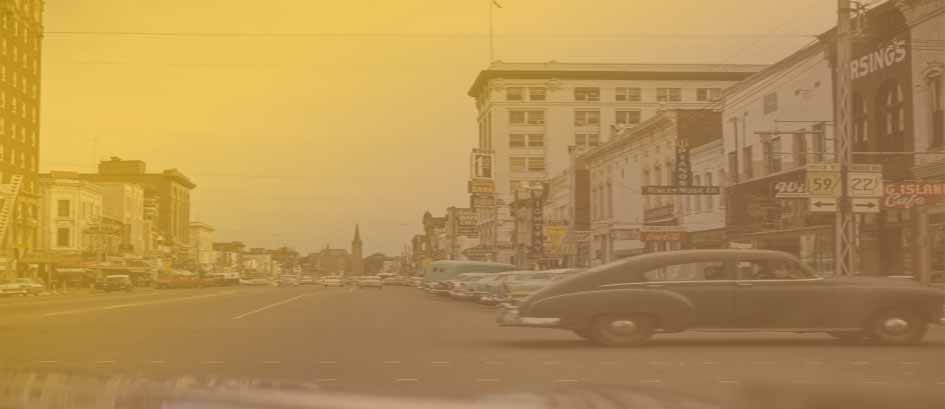
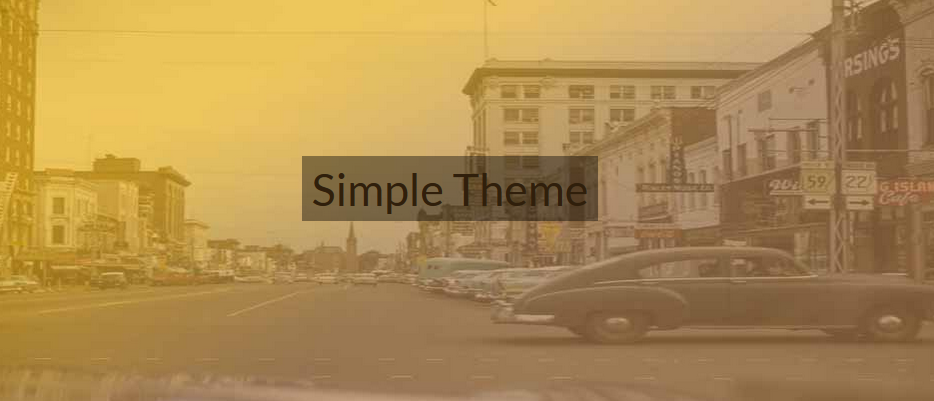
modified

diff --git a/css/style.css b/css/style.css
@@ -57,7 +57,7 @@ p, h2 {
 
 body{
 	width: 100%;
-	height: 1400px;
+	height: auto;
 	background: url("../images/back.jpg");
 	background-size: cover;
 	background-repeat: no-repeat;
@@ -66,7 +66,7 @@ body{
 	background-color: #d9c9ba;
 	margin-top: 2% !important;
 	width: 60%;
-	height: 1400px;
+	height: auto;
 	margin: 0 auto;
 	border: 3px solid #301f0b;
 }
@@ -104,29 +104,22 @@ ul {
 .midsection {
 	width: 100%;
 	height: 300px;
-	margin-left: 1.5%;
 	margin-top: 6%;
+}
+@media (max-width: 768px) {
+	.midsection {
+		height: 20%;
+	}
 }
 nav {
 	height: 130px;
 	border-bottom: 3px solid #301f0b;
 }
-.banner2 {
-	margin: 20px auto;
-	background: url("../images/banner2.jpg");
-	background-repeat: no-repeat;
-	width: 920px;
-	height: 409px;
-}
-.simple {
-	color: #301f0b;
-	margin-left: 21%;
-	margin-top: 7%;
-	padding: 10px;
-	position: absolute;
-	font-family: 'Lato';
-	font-size: 45px;
-	background: rgb(0,0,0,0.4);
+@media (max-width: 768px) {
+	.simple {
+		font-size: 20px;
+		margin-left: 15%;
+	}
 }
 .midsection h1 {
 	font-family: 'Lato';
@@ -135,22 +128,43 @@ nav {
 	margin-bottom: 1.5%;
 }
 .box {
+	margin-left: 4%;
 	display: inline-block;
 	padding: 20px;
 }
+@media (max-width: 768px ) {
+	.box {
+		display: none;
+	}
+}
+
 .boxes {
-	margin-left: 0 auto !important;
-	margin-right: 35px !important;
-	width: 900px !important;
+	margin: 0 auto !important;
+	width: 90% !important;
 	height: 180px;
 	margin-right: 200px;
 	margin-bottom: 25px;
 	border: 3px solid #301f0b;
 }
+@media (max-width: 768px) {
+	.boxes {
+		border: none;
+	}
+}
+@media (max-width: 768px) {
+	.midsection h1 {
+		display: none;
+	}
+}
 .downsection {
 	min-height: 450px;
 	margin-left: 25px !important;
 	margin: 0 auto;
+}
+@media (max-width: 768px) {
+	.downsection {
+		height: 10%;
+	}
 }
 .downsection h1 {
 	color: #301f0b;
@@ -159,6 +173,11 @@ nav {
 form {
 	width: 400px;
 	display: inline-block;
+}
+@media (max-width: 768px) {
+	form {
+		display: none;
+	}
 }
 input[type=text], input[type=email] {
 	font-family: 'Lato';
@@ -194,9 +213,21 @@ input[type=submit]:hover {
 .contactbox {
 	float: right;
 }
+@media (max-width: 768px) {
+	.contactbox  {
+		float: none;
+
+	}
+}
 .contactme {
 	margin-right: 200px;
 	width: 300px;
+}
+@media (max-width: 768px) {
+	.contactbox h1 {
+		margin-right: 0;
+		font-size: 20px;
+	}
 }
 .contactinfo {
 	padding: 5px;
@@ -205,6 +236,12 @@ input[type=submit]:hover {
 	width: 275px;
 	height: auto;
 	border: 3px solid #301f0b;
+}
+@media (max-width: 768px) {
+	.contactinfo {
+		font-size: 12px;
+		border: none;
+	}
 }
 .contactinfo p {
 	margin-bottom: 10px;
@@ -217,6 +254,12 @@ input[type=submit]:hover {
 	width: 48px;
 	height: 48px;
 }
+@media (max-width: 768px) {
+	.icon1 {
+		display: none;
+	}
+}
+
 .icon2 {
 	margin-right: 8px;
 	margin-top: 15px;
@@ -224,6 +267,11 @@ input[type=submit]:hover {
 	background: url("../images/Pinterest.png");
 	width: 48px;
 	height: 48px;
+}
+@media (max-width: 768px) {
+	.icon2 {
+		display: none;
+	}
 }
 .icon3 {
 	margin-right: 8px;
@@ -233,6 +281,11 @@ input[type=submit]:hover {
 	width: 48px;
 	height: 48px;
 }
+@media (max-width: 768px) {
+	.icon3 {
+		display: none;
+	}
+}
 .icon4 {
 	margin-right: 8px;
 	margin-top: 15px;
@@ -240,6 +293,11 @@ input[type=submit]:hover {
 	background: url("../images/Bebo.png");
 	width: 48px;
 	height: 48px;
+}
+@media (max-width: 768px) {
+	.icon4 {
+		display: none;
+	}
 }
 .footer {
 	width: 99.9%;
@@ -252,4 +310,12 @@ input[type=submit]:hover {
 	padding: 6px;
 	text-align: center;
 	margin-left: 2%;
+}
+.responsive {
+	display: none;
+}
+@media (max-width: 768px) {
+	.responsive {
+		display: inline;
+	}
 }

diff --git a/index.html b/index.html
@@ -19,23 +19,24 @@
 				<li><a href="#">Contact</a></li>
 			</ul>
 		</nav>
-		<div class="banner2"><h1 class="simple">Simple Theme</h1></div>
+		<img src="images/banner2.jpg" width="100%">
 		<div class="midsection">
 			<h1>Lorem ipsum text here</h1>
-			<div class="boxes container">
-				<div class="box col"><img src="images/avire.jpg" width="180" height="140"></div>
-				<div class="box col"><img src="images/avire.jpg" width="180" height="140"></div>
-				<div class="box col"><img src="images/avire.jpg" width="180" height="140"></div>
-				<div class="box col"><img src="images/avire.jpg" width="180" height="140"></div>
+			<div class="boxes">
+				<div class="responsive"><p>Check my portfolio to see my work</p></div>
+				<div class="box col"><img src="images/avire.jpg" width="100%" height="140"></div>
+				<div class="box col"><img src="images/avire.jpg" width="100%" height="140"></div>
+				<div class="box col"><img src="images/avire.jpg" width="100%" height="140"></div>
+				<div class="box col"><img src="images/avire.jpg" width="100%" height="140"></div>
 			</div>
 		</div>
 		<div class="downsection">
 			<h1 class="contactme">Contact me</h1>
 			<form>
-				<input type="text" value="Name">
-				<p><input type="text" value="Subject"><p>
-				<p><input type="email" value="Email"><p>
-				<p><textarea>Your Message</textarea><p>
+				<input type="text" placeholder="Name">
+				<p><input type="text" placeholder="Subject"><p>
+				<p><input type="email" placeholder="Email"><p>
+				<p><textarea placeholder="Your Message"></textarea><p>
 				<input type="submit" value="SEND">
 			</form>
 			<div class="contactbox">
